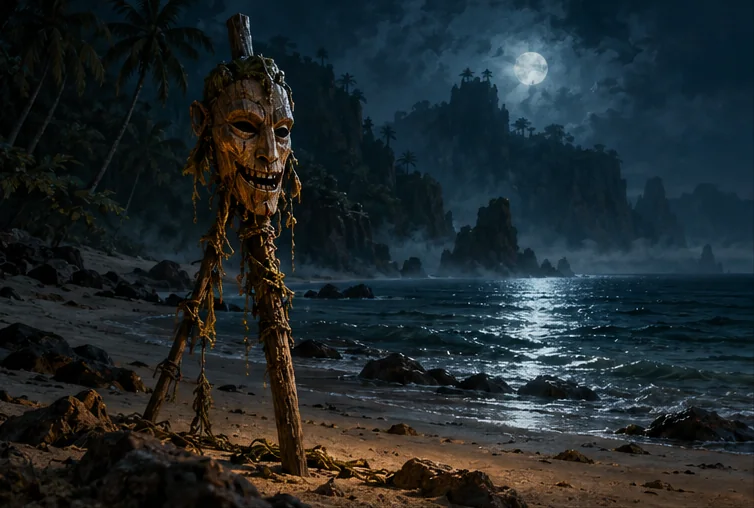
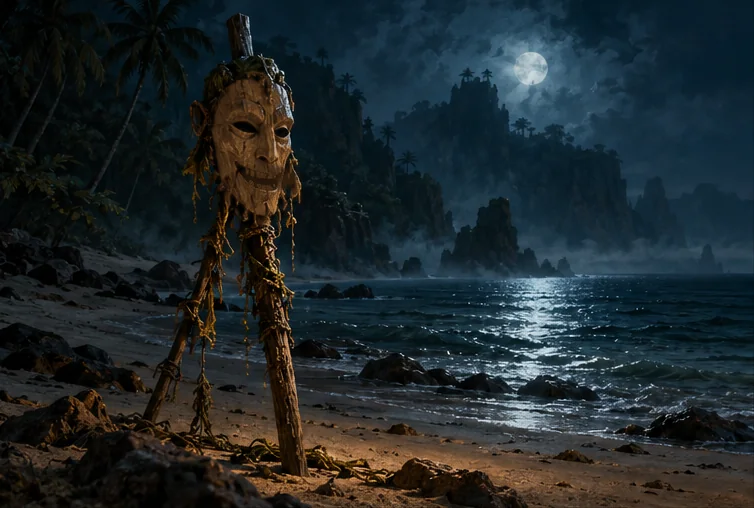
port: the harbour seen on a phone — an arrival splash (its painting full-width ~1.5 s with the port's name, tap skips, once a port a session, after the arrival film), a picture header on «Гавань», the harbour faintly behind the window's frame; mg_talking_skull's mask recoloured to plain carved wood 

Changed region(s): [[0.2745, 0.1476, 0.3966, 0.4429]]

diff --git a/client/src/ui/portsplash.ts b/client/src/ui/portsplash.ts
@@ -1,0 +1,77 @@
+// The harbour seen on arrival (coordinator, 2026-10-25: on a phone the port window's band is too low to show the
+// painted harbour the owner paid for): when she docks, the harbour's painting full-width for about a second and a half
+// with the port's name, fading into the port window under it. A tap skips it. Once a port a session (her first visit is
+// always a first in its session); never over a film (it waits for the film to end) and never if the picture is slow.
+
+import { harbourArt } from '../../../shared/src/data/paintart.ts';
+import type { PortPublic } from '../../../shared/src/protocol.ts';
+import { artUrls } from './artfall.ts';
+import { esc } from './dom.ts';
+
+const seen = new Set<string>();
+const HOLD = 1500;
+const FADE_IN = 250;
+const FADE_OUT = 450;
+
+/** Arrived at a port: its splash, if not yet shown this session. `name` and `sub` are the reader's words. */
+export function portSplash(port: PortPublic, name: string, sub: string): void {
+  if (seen.has(port.id) || typeof document === 'undefined') return;
+  seen.add(port.id);
+  const urls = artUrls(harbourArt(port));
+  if (!urls.length) return;
+  const since = performance.now();
+  // the picture first (a slow line: no splash at all rather than an empty one)
+  const img = new Image();
+  let ready = false;
+  img.onload = () => (ready = true);
+  img.onerror = () => {
+    // its next painting, if the first fails
+    if (urls.length > 1) {
+      urls.shift();
+      img.src = urls[0];
+    }
+  };
+  img.src = urls[0];
+  const t = setInterval(() => {
+    const waited = performance.now() - since;
+    if (document.querySelector('.film') && waited < 30_000) return; // a film of the arrival plays first
+    if (!ready) {
+      if (waited > 2500) clearInterval(t);
+      return;
+    }
+    clearInterval(t);
+    show(img.src, name, sub);
+  }, 120);
+}
+
+/** The splash itself (QA: `hold` keeps it up that long). */
+export function show(url: string, name: string, sub: string, hold = HOLD): void {
+  document.getElementById('port-splash')?.remove();
+  const el = document.createElement('div');
+  el.id = 'port-splash';
+  el.setAttribute('role', 'img');
+  el.setAttribute('aria-label', name);
+  el.style.backgroundImage = `url('${url}')`;
+  el.innerHTML = `<div class="ps-t"><b>${esc(name)}</b><span>${esc(sub)}</span></div>`;
+  document.body.append(el);
+  let gone = false;
+  const close = (fast: boolean) => {
+    if (gone) return;
+    gone = true;
+    el.classList.remove('on');
+    setTimeout(() => el.remove(), fast ? 160 : FADE_OUT);
+  };
+  el.addEventListener('pointerdown', (e) => {
+    e.preventDefault();
+    e.stopPropagation();
+    close(true);
+  });
+  requestAnimationFrame(() => el.classList.add('on'));
+  setTimeout(() => close(false), FADE_IN + hold);
+}
+
+/** QA: the splash shown again for a port (forget it was seen). */
+export function portSplashReset(id?: string): void {
+  if (id) seen.delete(id);
+  else seen.clear();
+}

diff --git a/client/styles.css b/client/styles.css
@@ -5628,3 +5628,19 @@ html.app-paused *, html.app-paused *::before, html.app-paused *::after { animati
 .modal-head.art-head > * { position: relative; }
 /* a sea's zone boss on the target's glance: her banner as a thin strip */
 #hud-target .tg-zb, .tg .tg-zb { height: 34px; margin: 3px 0 2px; border-radius: 3px; background: #0b0d10 center 40% / cover no-repeat; border: 1px solid rgba(201, 120, 95, 0.45); }
+
+/* The harbour made visible on a phone (2026-10-25): the arrival splash, the «Гавань» tab's picture header, the frame */
+#port-splash { position: fixed; inset: 0; z-index: 2147481000; background: #050608 center 45% / cover no-repeat; opacity: 0; transition: opacity 0.45s ease; cursor: pointer; touch-action: none; }
+#port-splash.on { opacity: 1; transition-duration: 0.25s; }
+#port-splash::after { content: ''; position: absolute; inset: 0; background: linear-gradient(to top, rgba(6, 7, 9, 0.9) 0%, rgba(6, 7, 9, 0.62) 24%, rgba(6, 7, 9, 0) 50%); pointer-events: none; }
+#port-splash .ps-t { position: absolute; z-index: 1; left: calc(var(--sa-l, 0px) + 28px); right: calc(var(--sa-r, 0px) + 28px); bottom: calc(var(--sa-b, 0px) + 22px); display: flex; flex-direction: column; gap: 4px; }
+#port-splash .ps-t b { font: 600 clamp(26px, 7vh, 44px) / 1.1 var(--serif); color: #f6ead0; text-shadow: 0 2px 4px #000, 0 0 18px rgba(0, 0, 0, 0.85); }
+#port-splash .ps-t span { font: 600 13px / 1.25 var(--sans); letter-spacing: 0.1em; text-transform: uppercase; color: #ecd59a; text-shadow: 0 1px 3px #000, 0 0 10px rgba(0, 0, 0, 0.9); }
+.ph-hero { position: relative; height: clamp(104px, 36vh, 260px); margin: 0 0 10px; border-radius: 6px; border: 1px solid rgba(232, 196, 106, 0.35); background: var(--bg-port, none) center 45% / cover no-repeat, #0b0d10; overflow: hidden; }
+.ph-hero::before { content: ''; position: absolute; inset: 0; background: linear-gradient(to top, rgba(6, 7, 9, 0.88) 0%, rgba(6, 7, 9, 0.55) 34%, rgba(6, 7, 9, 0) 64%); pointer-events: none; }
+.ph-hero-t { position: absolute; left: 14px; right: 14px; bottom: 10px; display: flex; flex-direction: column; gap: 2px; min-width: 0; }
+.ph-hero-t b { font: 600 22px / 1.15 var(--serif); color: #f6ead0; text-shadow: 0 1px 3px #000, 0 0 12px rgba(0, 0, 0, 0.85); overflow: hidden; text-overflow: ellipsis; white-space: nowrap; }
+.ph-hero-t span { font: 600 11px / 1.25 var(--sans); letter-spacing: 0.08em; text-transform: uppercase; color: #ecd59a; text-shadow: 0 1px 3px #000, 0 0 10px rgba(0, 0, 0, 0.9); overflow: hidden; text-overflow: ellipsis; white-space: nowrap; }
+@media (max-height: 520px) { .ph-hero-t b { font-size: 19px; } }
+/* the harbour faintly behind the tabs and the pages (dark enough for every word on it: measured, AA) */
+#modal-panel[data-modal="port"] .w-frame { background: linear-gradient(rgba(11, 11, 13, 0.9), rgba(11, 11, 13, 0.93)), var(--bg-port, none) center 45% / cover no-repeat; }

diff --git a/client/src/ui/port.ts b/client/src/ui/port.ts
@@ -902,8 +902,11 @@ ${orders}${berths}</div>` : ''}`;
     const regatta = regattaCard(state, state.regatta, state.self?.dockedAt ?? null) + holidayCard(state);
     const self = state.self!;
     const port = state.ports.find((p) => p.id === view.portId)!;
+    // (the harbour's own painting as a picture header: on a phone the window's band is too low to show it — its name
+    //  and flag over a gentle gradient at its foot; the painting is the band's, --bg-port)
+    const hero = `<div class="ph-hero" role="img" aria-label="${esc(placeName(port.name))}"><div class="ph-hero-t"><b>${esc(placeName(port.name))}</b><span>${esc(FACTIONS[port.faction].name)} · ${esc(REGIONS[port.region].name)}</span></div></div>`;
     const reps = Object.entries(self.reputation).map(([f, v]) => ledgerRow({ ico: icon(`faction_${f}`), title: esc(FACTIONS[f as never as keyof typeof FACTIONS].name), acts: `<b class="lr-num ${(v ?? 0) < 0 ? 'up' : 'down'}">${v}</b>`, cls: 'lr-rep' })).join('');
-    return `${regatta}<div class="cols"><div>
+    return `${hero}${regatta}<div class="cols"><div>
         <div class="card"><h4 class="card-h">${icon('wanted', '', 'ico-md')}${esc(L('pardon.title'))}</h4>${view.pardonCost !== null ? `<p>${esc(L('pardon.text', { n: self.infamy }))}</p><button class="btn" data-act="pardon" ${self.infamy >= 20 ? '' : 'disabled'}>${esc(L('pardon.buy', { cost: fmt(view.pardonCost) }))}</button>` : `<p class="muted">${esc(L('pardon.none'))}</p>`}</div>
         ${view.licence ? `<div class="card"><h4 class="card-h">${icon('map_contract', '', 'ico-md')}${esc(L('licence.title'))}</h4><p>${esc(view.licence.until > state.estServerTime() ? L('licence.textActive', { faction: FACTIONS[port.faction].short }) : L('licence.textDuty', { pct: Math.round(view.duty * 100) || '', faction: FACTIONS[port.faction].short }))}</p>
           ${port.faction === 'harpoon' ? `<p class="muted">${esc(L('licence.whaling'))}</p>` : ''}

diff --git a/client/src/main.ts b/client/src/main.ts
@@ -151,6 +151,7 @@ import { STORY_FROM, campaignLore, campaignNews, chapterOpener, dropWord } from 
 import { DROP_CARD } from '../../shared/src/data/paintart.ts'; // docs/36: the campaign's next quest comes by itself
 import { FACTIONS } from '../../shared/src/data/factions.ts';
 import { placeName } from './ui/maps.ts';
+import { portSplash } from './ui/portsplash.ts';
 import type { Key } from './i18n.ts';
 import { EN as MAIN_EN, RU as MAIN_RU } from './lang/ui/main.ts';
 import { renderDescent } from './ui/descent.ts';
@@ -1861,7 +1862,12 @@ function onMessage(m: ServerMsg): void {
       if (m.kind === 'goal' || m.kind === 'stage') audio.coins();
       break;
     case 'port':
-      if (m.view && modal !== 'port') audio.bell();
+      if (m.view && modal !== 'port') {
+        audio.bell();
+        // the harbour's painting full-width on arrival, once a port a session (ui/portsplash.ts)
+        const at = state.ports.find((p) => p.id === m.view!.portId);
+        if (at) portSplash(at, placeName(at.name), `${FACTIONS[at.faction].name} · ${REGIONS[at.region].name}`);
+      }
       // Never steal focus from another open screen (handbook, boarding, shipwreck); they return to port on close.
       if (m.view && modal === null && !isleScene.isOpen) openModal('port');
       else if (!m.view && modal === 'port') closeModal();

diff --git a/tools/art/pack_oct24.py b/tools/art/pack_oct24.py
@@ -85,12 +85,41 @@ def axe_rust(rgb: np.ndarray) -> np.ndarray:
     return (f * (1 - m) + rust * m).clip(0, 255).astype(np.uint8)
 
 
+def carved_idol(rgb: np.ndarray) -> np.ndarray:
+    """The «talking skull» game's mask on its pike (coordinator, 2026-10-25: a grinning face on a pike may read as a
+    head): recoloured to plain carved wood — the face mapped onto a warm wood ramp with a fine vertical grain, the grin's
+    pale teeth sunk into dark wood (no pale, bone-like tone left), the eye holes deepened — so it reads as a carved idol."""
+    out = rgb.astype(np.float32)
+    h, w = out.shape[:2]
+    yy, xx = np.mgrid[0:h, 0:w].astype(np.float32)
+    # the mask's face (the cell's own pixels; the pike under it is wood already)
+    # (the ellipse about the face, and in it only the warm wood: the blue night behind it is left alone)
+    warm = np.clip((out[..., 0] - out[..., 2] - 4) / 16, 0, 1)
+    face = (((xx - 262) / 52) ** 2 + ((yy - 147) / 78) ** 2 <= 1).astype(np.float32) * warm
+    face = ndimage.gaussian_filter(face, 1.2)[..., None]
+    lum = out @ np.array([0.3, 0.59, 0.11], np.float32)
+    # the teeth and the whites of the grin: the bright pixels of the mouth pulled down into the wood's shadow
+    mouth = (((xx - 268) / 30) ** 2 + ((yy - 177) / 13) ** 2 <= 1).astype(np.float32)
+    mouth = ndimage.gaussian_filter(mouth, 2)
+    sink = mouth * np.clip((lum - 40) / 40, 0, 1)
+    lum = lum * (1 - 0.72 * sink)
+    face = np.maximum(face, mouth[..., None] * 0.95)
+    # the wood: a ramp from dark umber to warm tan, a fine grain down the carving
+    t = np.clip(lum / 190, 0, 1)
+    grain = 1 + 0.07 * np.sin(xx * 1.3 + np.sin(yy * 0.09) * 4.0) + 0.05 * np.sin(xx * 0.47 + yy * 0.05)
+    t = np.clip(t * grain, 0, 1)[..., None]
+    dark, light = np.array([38, 22, 10], np.float32), np.array([196, 132, 70], np.float32)
+    wood = dark + (light - dark) * t ** 0.9
+    out = out * (1 - face) + wood * face
+    return out.clip(0, 255).astype(np.uint8)
+
 FIXES = {
     # the Jolly Roger on the black flag top left (a skull over crossed bones)
     'card.ch_22': lambda c: inpaint(c, (36, 32, 62, 72), 60),
     # the small black flag over the fort with a pale skull on it
     'bg.port_gen_dead_confederacy': lambda c: inpaint(c, (526, 70, 545, 97), 45),
     'icon.art_red_hook_axe': axe_rust,
+    'card.mg_talking_skull': carved_idol,
 }
 
 
